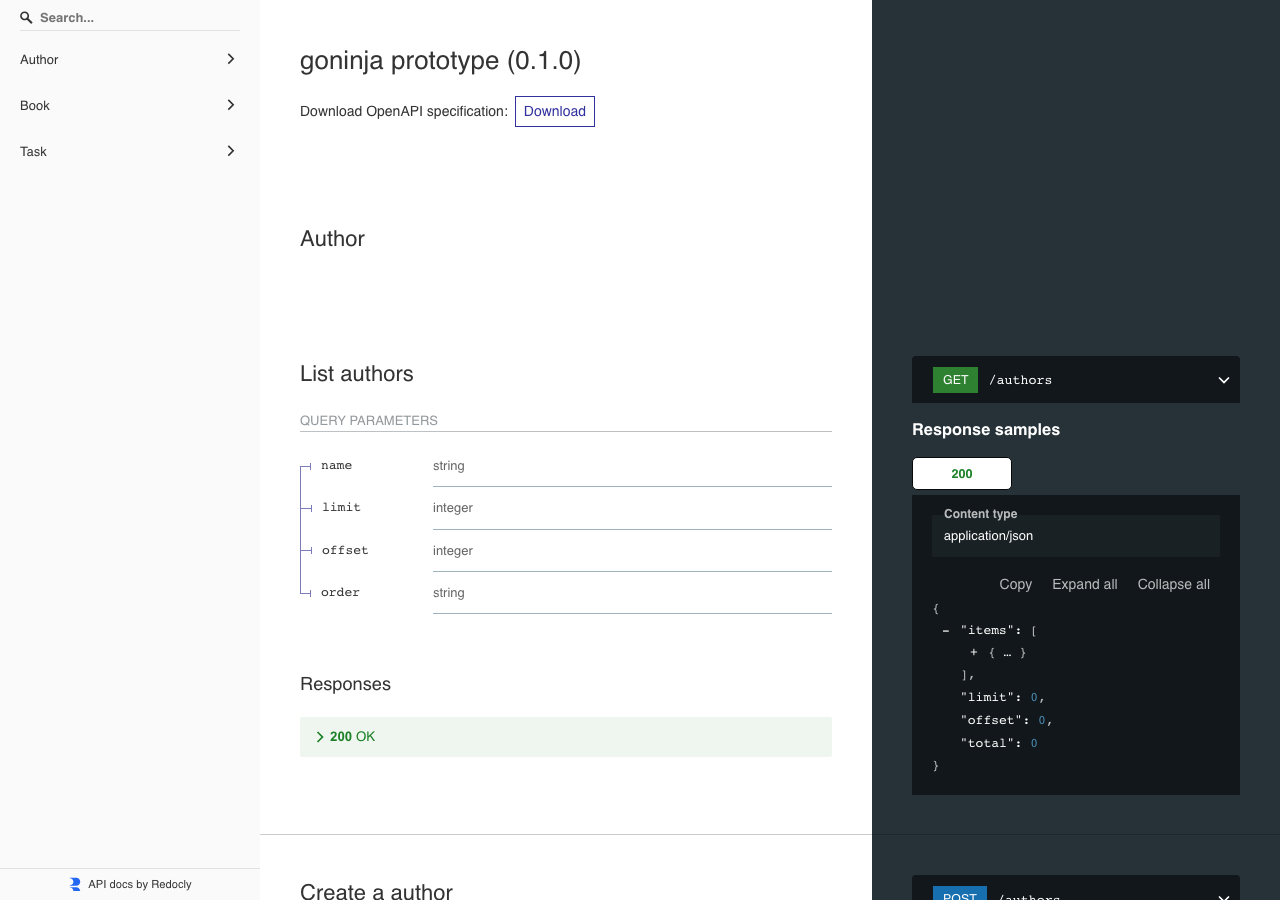
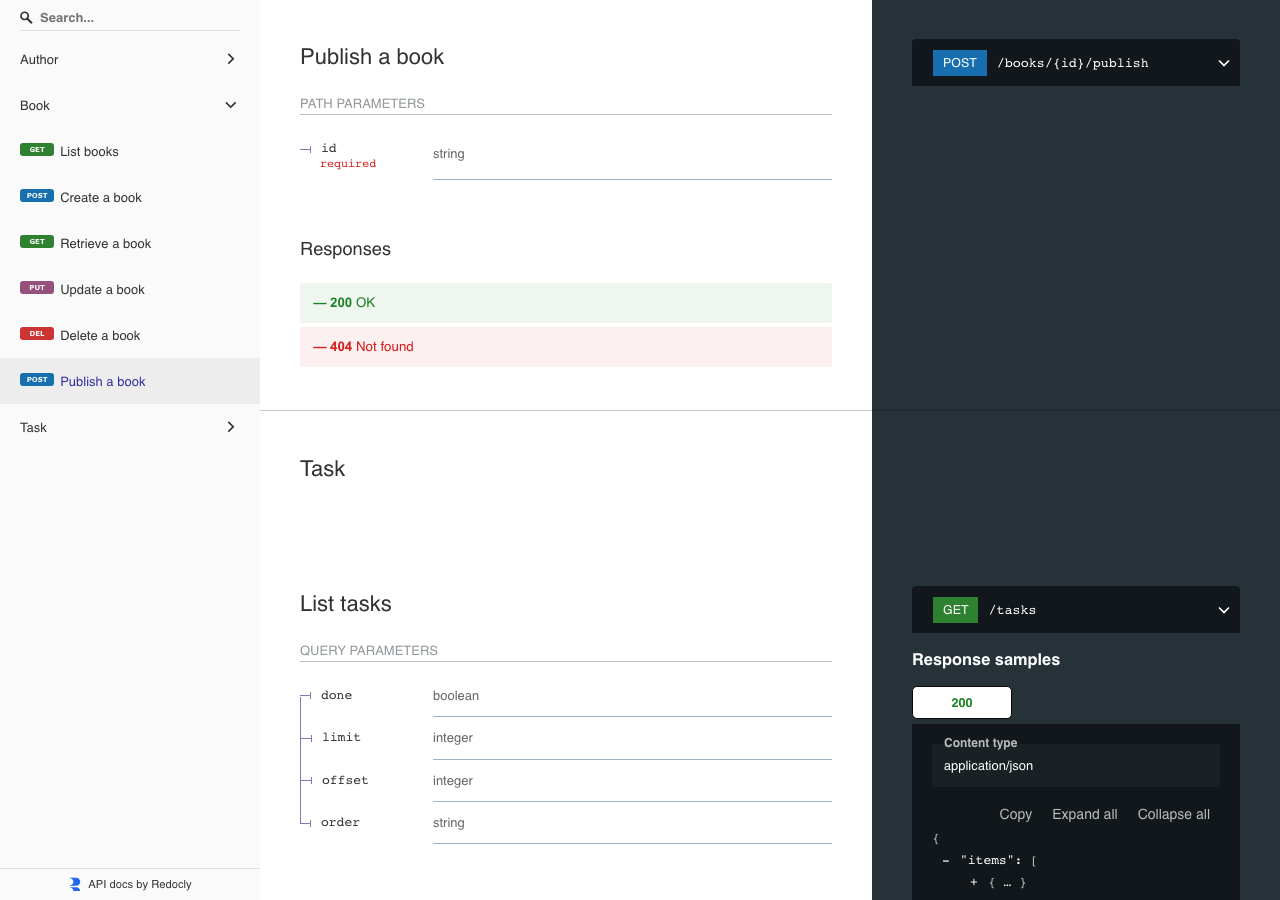
docs: refresh Swagger UI/ReDoc screenshots for the publish action
Regenerate all three docs UI screenshots against the running prototype
server so they reflect the new POST /books/{id}/publish action added
in the previous commit: swagger-ui.png now shows the Book group with
the publish route alongside the generated CRUD routes,
swagger-ui-operation.png shows the expanded publish operation (was
POST /books before), and redoc.png shows the sidebar with the publish
action selected and its detail pane. Reworded the surrounding README
captions/alt text to match and link to the new custom-routes section.

diff --git a/README.md b/README.md
@@ -151,14 +151,14 @@ the whole UI:
 
 **Swagger UI**<br><sub>`docsui.SwaggerUI()` — the default</sub>
 
-<img src="docs/screenshots/swagger-ui.png" alt="Swagger UI listing every route, grouped by model" width="100%">
+<img src="docs/screenshots/swagger-ui.png" alt="Swagger UI listing every route grouped by model, including the custom POST /books/{id}/publish action alongside the generated Book CRUD routes" width="100%">
 
 </td>
 <td width="50%" align="center">
 
 **ReDoc**<br><sub>`docsui.ReDoc()` — a drop-in swap</sub>
 
-<img src="docs/screenshots/redoc.png" alt="ReDoc three-pane layout with sidebar nav and response samples" width="100%">
+<img src="docs/screenshots/redoc.png" alt="ReDoc three-pane layout with sidebar nav, showing the custom Publish a book action documented next to the generated Book routes" width="100%">
 
 </td>
 </tr>
@@ -166,12 +166,14 @@ the whole UI:
 
 Every operation expands into its request/response schema, complete with
 example values generated straight from the model's fields — no hand-written
-OpenAPI, ever:
+OpenAPI, ever. The example below is the custom `POST /books/{id}/publish`
+action from [Adding custom routes beyond CRUD](#adding-custom-routes-beyond-crud) —
+declared with a `Summary`, it's documented exactly like a generated route:
 
 <p align="center">
-<img src="docs/screenshots/swagger-ui-operation.png" alt="Swagger UI showing an expanded POST /books operation with its request body schema and response example" width="720">
+<img src="docs/screenshots/swagger-ui-operation.png" alt="Swagger UI showing an expanded POST /books/{id}/publish operation, its id path parameter, and 200/404 responses" width="720">
 <br>
-<sub>An expanded <code>POST /books</code> operation in Swagger UI</sub>
+<sub>An expanded <code>POST /books/{id}/publish</code> action in Swagger UI</sub>
 </p>
 
 ### Extending a resource: hooks and overrides
